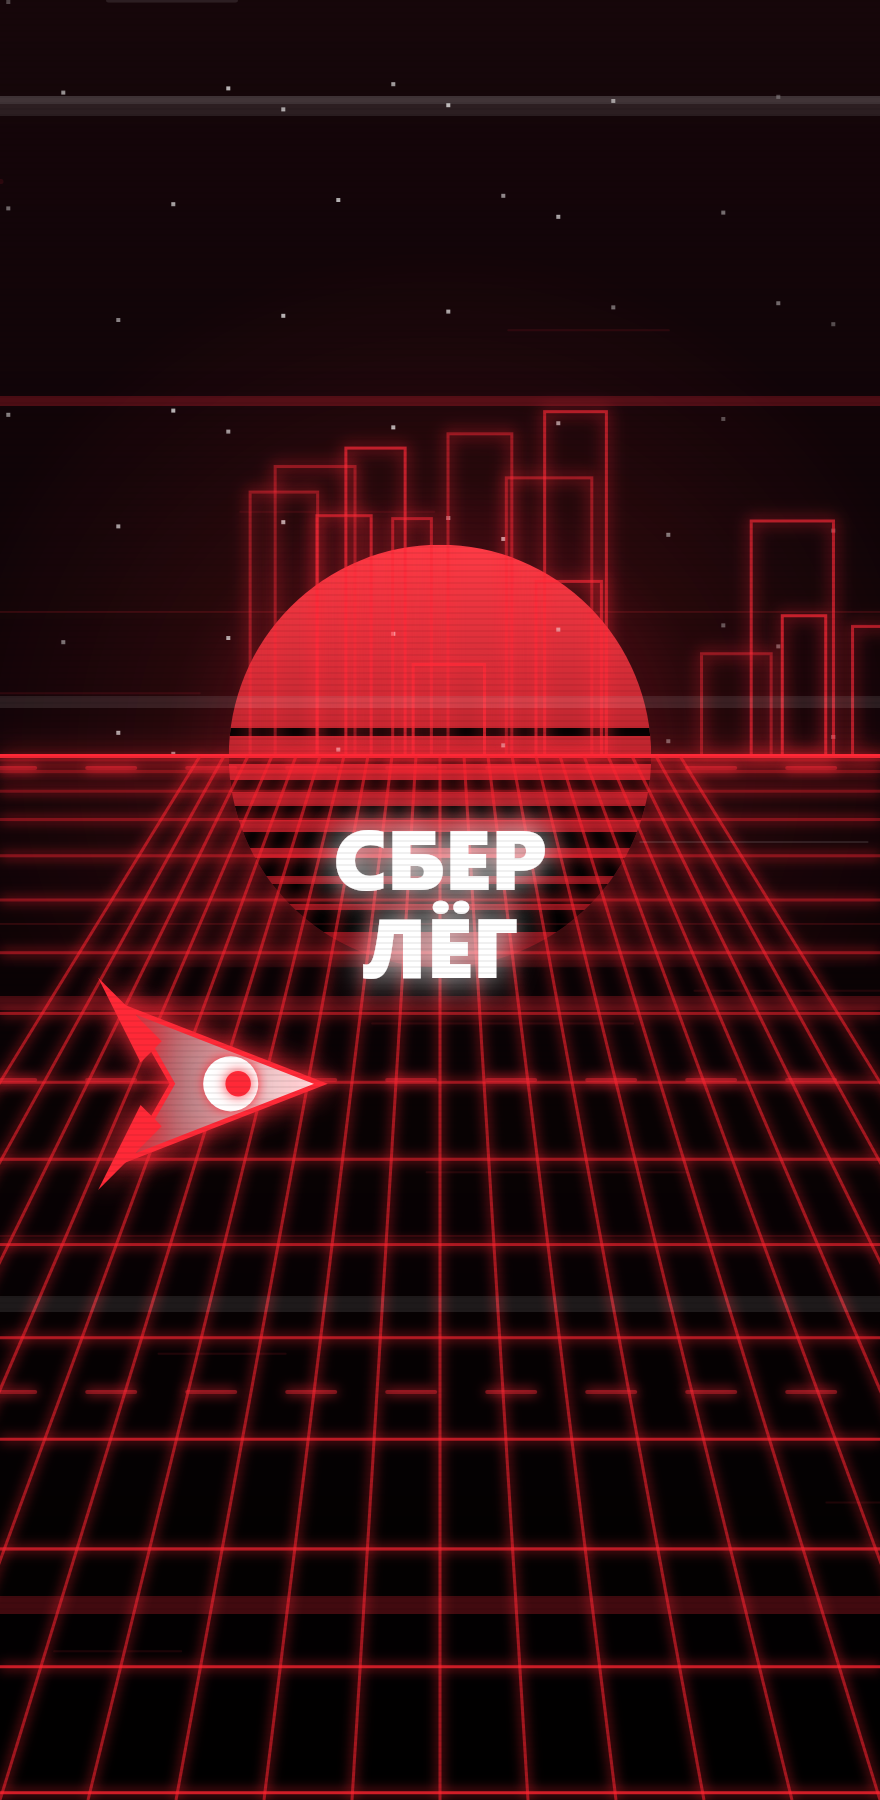
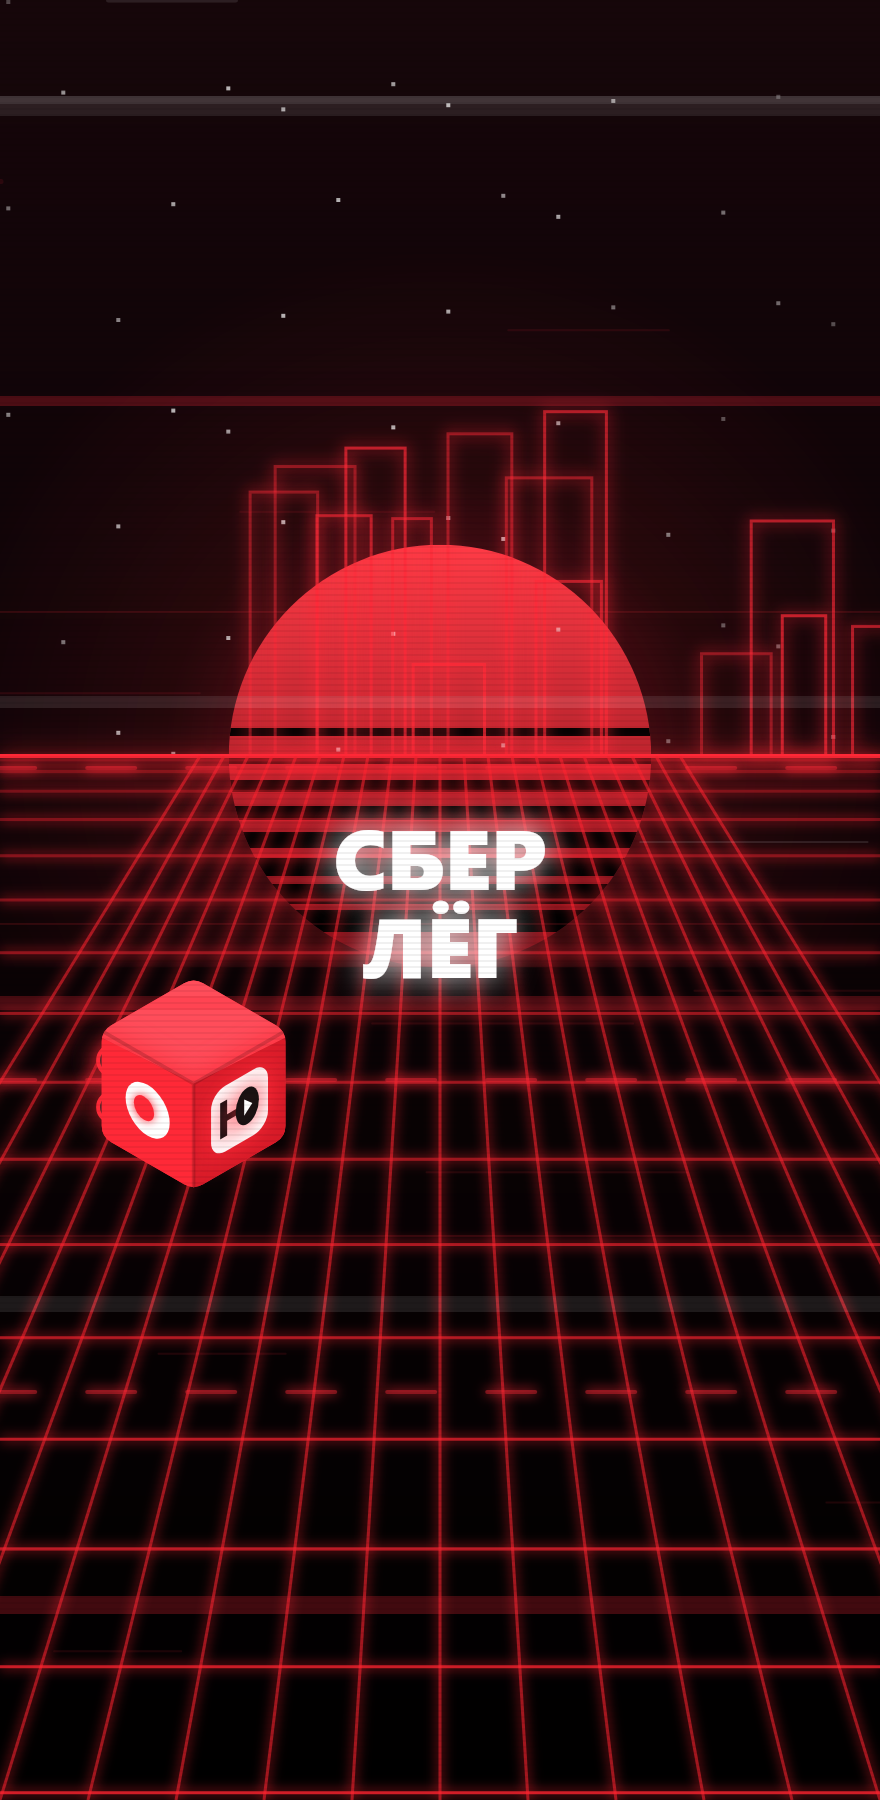
feat(game): render player as 3D rounded mascot cube with animated eye

Changed region(s): [[0.092, 0.5289, 0.3682, 0.6844]]

diff --git a/src/game/player.js b/src/game/player.js
@@ -1,6 +1,6 @@
 // Ракета-маскот: снаппи-твин, стретч, выражения «глаза» по состоянию, idle-вигл.
 import { CONFIG } from '../../config.js';
-import { lerp, clamp } from '../engine/render.js';
+import { lerp, clamp, roundRectPath } from '../engine/render.js';
 
 const C = CONFIG.COLORS;
 
@@ -65,35 +65,139 @@ export class Player {
     ctx.shadowColor = glow;
     ctx.shadowBlur = boosting ? 36 : 20;
 
-    const body = ctx.createLinearGradient(-s, 0, s, 0);
-    body.addColorStop(0, boosting ? C.hot : C.redDeep);
-    body.addColorStop(1, C.white);
-    ctx.fillStyle = body;
+    // 1. Две реактивные дюзы сзади куба для испускания частиц
+    ctx.fillStyle = '#222222';
     ctx.strokeStyle = boosting ? C.white : C.red;
-    ctx.lineWidth = 2.5;
+    ctx.lineWidth = 2;
+    
+    // Верхняя дюза
     ctx.beginPath();
-    ctx.moveTo(s * 1.2, 0);
-    ctx.lineTo(-s * 0.6, -s * 0.7);
-    ctx.lineTo(-s * 0.2, 0);
-    ctx.lineTo(-s * 0.6, s * 0.7);
+    ctx.arc(-s * 0.76, -s * 0.22, s * 0.14, 0, Math.PI * 2);
+    ctx.fill(); ctx.stroke();
+    
+    // Нижняя дюза
+    ctx.beginPath();
+    ctx.arc(-s * 0.76, s * 0.22, s * 0.14, 0, Math.PI * 2);
+    ctx.fill(); ctx.stroke();
+
+    // 2. Отрисовка 3D изометрического скруглённого куба (маскота)
+    ctx.save();
+    // Создаем маску скругленного шестиугольника (проекция скругленного куба)
+    const radius = s * 0.18;
+    const V = [
+      { x: 0, y: -s },
+      { x: s * 0.866, y: -s * 0.5 },
+      { x: s * 0.866, y: s * 0.5 },
+      { x: 0, y: s },
+      { x: -s * 0.866, y: s * 0.5 },
+      { x: -s * 0.866, y: -s * 0.5 }
+    ];
+    
+    ctx.beginPath();
+    ctx.moveTo((V[0].x + V[5].x) / 2, (V[0].y + V[5].y) / 2);
+    for (let i = 0; i < 6; i++) {
+      const next = (i + 1) % 6;
+      ctx.arcTo(V[i].x, V[i].y, V[next].x, V[next].y, radius);
+    }
+    ctx.closePath();
+    ctx.clip();
+
+    // Отрисовка граней:
+    // Верхняя грань (светлый красный)
+    ctx.fillStyle = boosting ? C.white : '#ff4d5a';
+    ctx.beginPath();
+    ctx.moveTo(0, 0);
+    ctx.lineTo(-s, -s * 0.5);
+    ctx.lineTo(0, -s * 1.25);
+    ctx.lineTo(s, -s * 0.5);
     ctx.closePath();
     ctx.fill();
+
+    // Левая грань (основной красный)
+    ctx.fillStyle = boosting ? C.hot : C.red;
+    ctx.beginPath();
+    ctx.moveTo(0, 0);
+    ctx.lineTo(-s * 1.2, -s * 0.6);
+    ctx.lineTo(-s * 1.2, s * 0.6);
+    ctx.lineTo(0, s * 1.2);
+    ctx.closePath();
+    ctx.fill();
+
+    // Правая грань (темный красный)
+    ctx.fillStyle = boosting ? C.redDeep : '#d61a27';
+    ctx.beginPath();
+    ctx.moveTo(0, 0);
+    ctx.lineTo(s * 1.2, -s * 0.6);
+    ctx.lineTo(s * 1.2, s * 0.6);
+    ctx.lineTo(0, s * 1.2);
+    ctx.closePath();
+    ctx.fill();
+
+    // Тонкие линии стыков граней
+    ctx.strokeStyle = 'rgba(0, 0, 0, 0.16)';
+    ctx.lineWidth = 1.8;
+    ctx.beginPath();
+    ctx.moveTo(0, 0); ctx.lineTo(0, s);
+    ctx.moveTo(0, 0); ctx.lineTo(-s * 0.866, -s * 0.5);
+    ctx.moveTo(0, 0); ctx.lineTo(s * 0.866, -s * 0.5);
     ctx.stroke();
+    ctx.restore();
 
-    ctx.fillStyle = C.red;
+    // 3. Отрисовка белой скругленной карточки с логотипом "Ю" на правой грани
+    ctx.save();
+    // Сдвигаем в центр правой грани и применяем изометрический скос
+    ctx.transform(0.866, -0.5, 0, 1, s * 0.433, s * 0.25);
+    
+    const cardW = s * 0.62;
+    const cardH = s * 0.62;
+    ctx.fillStyle = C.white;
     ctx.beginPath();
-    ctx.moveTo(-s * 0.3, -s * 0.4);
-    ctx.lineTo(-s * 0.9, -s * 1.0);
-    ctx.lineTo(-s * 0.5, -s * 0.2);
-    ctx.closePath(); ctx.fill();
-    ctx.beginPath();
-    ctx.moveTo(-s * 0.3, s * 0.4);
-    ctx.lineTo(-s * 0.9, s * 1.0);
-    ctx.lineTo(-s * 0.5, s * 0.2);
-    ctx.closePath(); ctx.fill();
+    roundRectPath(ctx, -cardW / 2, -cardH / 2, cardW, cardH, cardW * 0.25);
+    ctx.fill();
 
-    // Глаза маскота — выражение по состоянию
+    // Черный логотип "Ю"
+    const w_logo = cardW * 0.68;
+    const h_logo = cardH * 0.55;
+    const x_start = -w_logo / 2;
+    const y_start = -h_logo / 2;
+
+    ctx.fillStyle = '#111111';
+
+    // Левый вертикальный штрих
+    const barW = w_logo * 0.18;
+    ctx.fillRect(x_start, y_start, barW, h_logo);
+
+    // Перемычка
+    const connW = w_logo * 0.22;
+    const connH = h_logo * 0.18;
+    ctx.fillRect(x_start + barW - 1, -connH / 2, connW + 2, connH);
+
+    // Правый овал
+    const loopW = w_logo - barW - connW;
+    const loopH = h_logo;
+    const cx = x_start + barW + connW + loopW / 2;
+    const cy = 0;
+    ctx.beginPath();
+    ctx.ellipse(cx, cy, loopW / 2, loopH / 2, 0, 0, Math.PI * 2);
+    ctx.fill();
+
+    // Белая кнопка PLAY (треугольник) внутри овала
+    const triW = loopW * 0.35;
+    const triH = loopH * 0.45;
+    ctx.fillStyle = C.white;
+    ctx.beginPath();
+    ctx.moveTo(cx - triW * 0.38, -triH * 0.5);
+    ctx.lineTo(cx - triW * 0.38, triH * 0.5);
+    ctx.lineTo(cx + triW * 0.62, 0);
+    ctx.closePath();
+    ctx.fill();
+    ctx.restore();
+
+    // 4. Отрисовка живого глаза на левой грани (смотрит по направлению движения)
+    ctx.save();
+    ctx.transform(-0.866, -0.5, 0, 1, -s * 0.433, s * 0.25);
     this._drawEye(ctx, s, t);
+    ctx.restore();
 
     ctx.restore();
   }
@@ -102,38 +206,41 @@ export class Player {
     const m = this.mood;
     ctx.shadowBlur = 10; ctx.shadowColor = C.red;
 
-    // белки
+    // Белок глаза
     ctx.fillStyle = '#ffffff';
     ctx.beginPath();
-    ctx.arc(s * 0.35, 0, s * 0.26, 0, Math.PI * 2);
+    ctx.arc(0, 0, s * 0.24, 0, Math.PI * 2);
     ctx.fill();
 
     if (m === 'boost') {
-      // 😎 — солнечные очки (тёмный эллипс)
-      ctx.fillStyle = '#111';
+      // 😎 крутые очки в бусте
+      ctx.fillStyle = '#111111';
       ctx.beginPath();
-      ctx.ellipse(s * 0.35, 0, s * 0.26, s * 0.14, 0, 0, Math.PI * 2);
+      ctx.ellipse(0, 0, s * 0.24, s * 0.13, 0, 0, Math.PI * 2);
       ctx.fill();
-      ctx.strokeStyle = C.red; ctx.lineWidth = 2; ctx.beginPath();
-      ctx.moveTo(s * 0.35 - s * 0.26, 0);
-      ctx.lineTo(s * 0.35 + s * 0.26, 0);
+      ctx.strokeStyle = C.red;
+      ctx.lineWidth = 2;
+      ctx.beginPath();
+      ctx.moveTo(-s * 0.24, 0);
+      ctx.lineTo(s * 0.24, 0);
       ctx.stroke();
     } else if (m === 'danger' || m === 'captcha') {
-      // 😱 — большие глаза
-      ctx.fillStyle = '#000';
+      // 😱 испуганный зрачок
+      ctx.fillStyle = '#000000';
       ctx.beginPath();
-      ctx.arc(s * 0.35, 0, s * 0.22, 0, Math.PI * 2);
+      ctx.arc(0, 0, s * 0.18, 0, Math.PI * 2);
       ctx.fill();
-      ctx.fillStyle = '#fff';
+      // Блик
+      ctx.fillStyle = '#ffffff';
       ctx.beginPath();
-      ctx.arc(s * 0.30, -s * 0.05, s * 0.07, 0, Math.PI * 2);
+      ctx.arc(-s * 0.05, -s * 0.05, s * 0.06, 0, Math.PI * 2);
       ctx.fill();
     } else {
-      // обычный / near-miss
-      const pupilSize = m === 'normal' ? s * 0.12 : s * 0.08;
+      // Обычный зрачок (слегка косит вперед)
+      const pupilSize = m === 'normal' ? s * 0.11 : s * 0.07;
       ctx.fillStyle = C.red;
       ctx.beginPath();
-      ctx.arc(s * 0.42, 0, pupilSize, 0, Math.PI * 2);
+      ctx.arc(s * 0.04, 0, pupilSize, 0, Math.PI * 2);
       ctx.fill();
     }
   }
